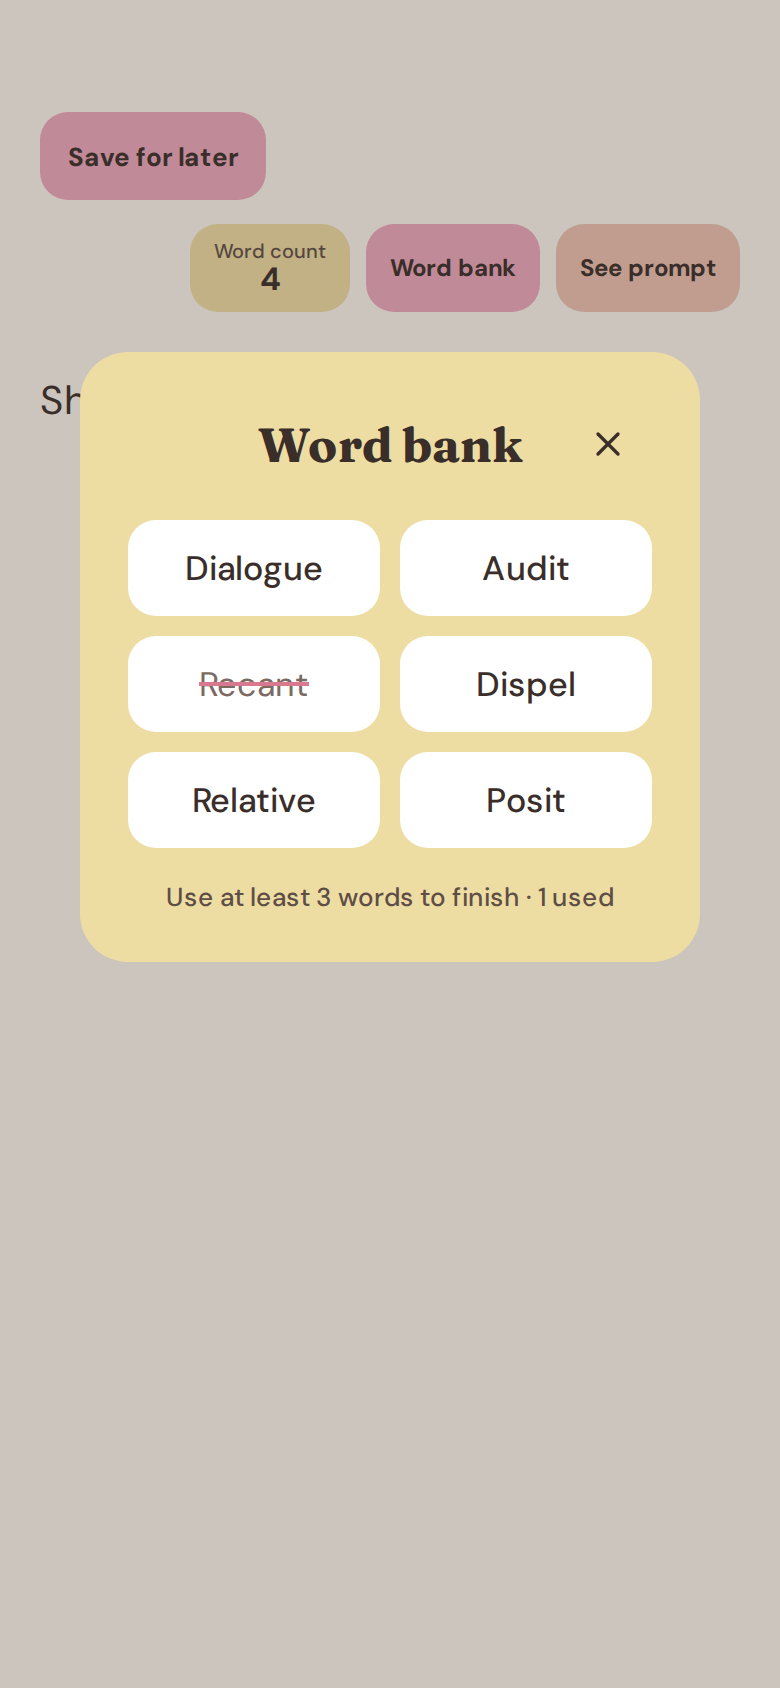
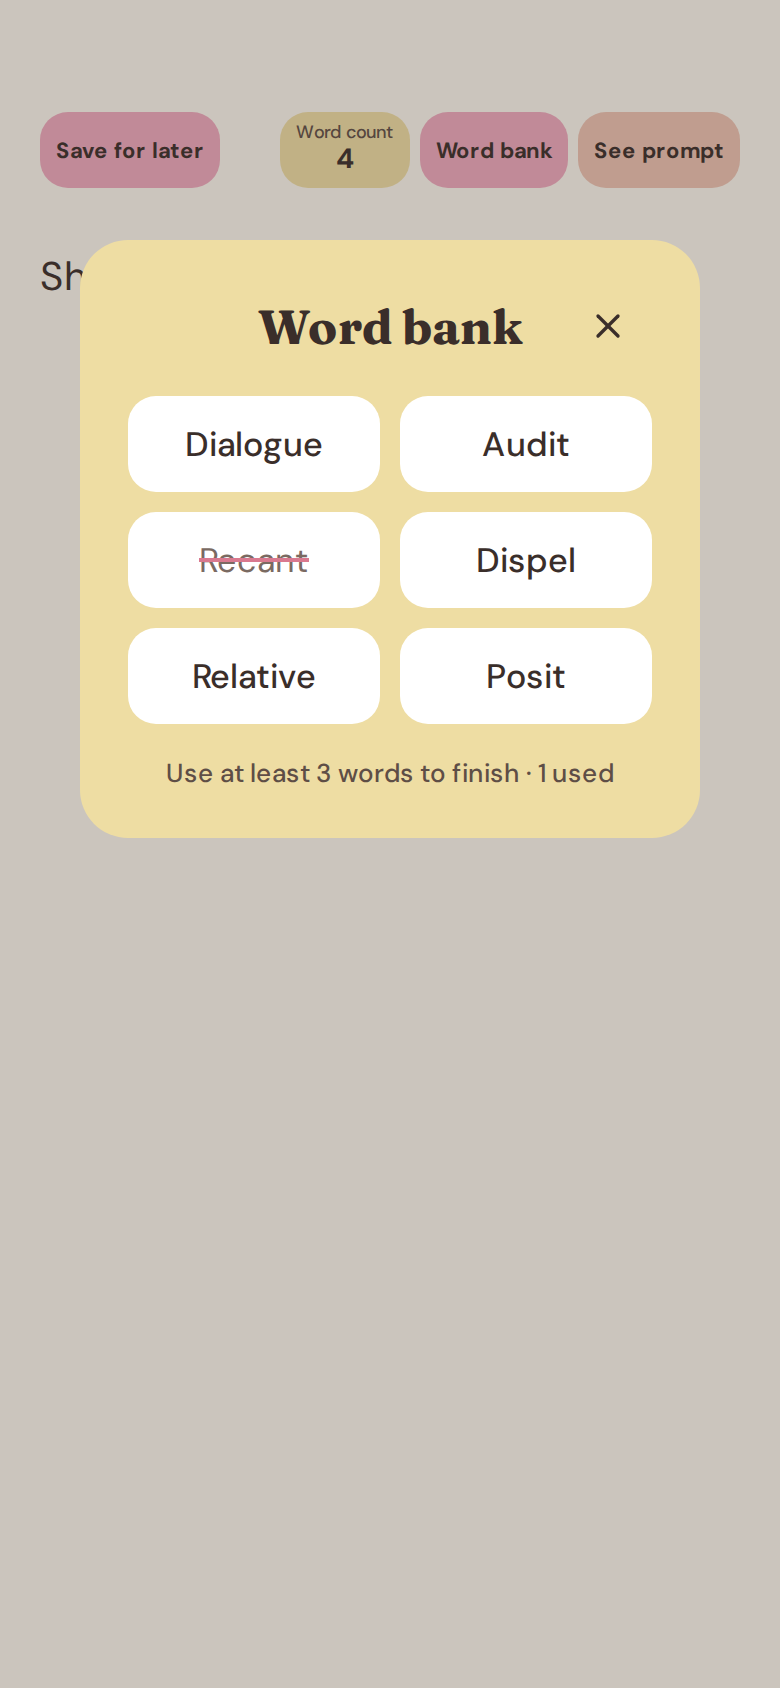
Keep Write screen buttons on one row and make them smaller

Changed region(s): [[0.0615, 0.0616, 0.9538, 0.5853]]

diff --git a/screens/write-word-bank-open.html b/screens/write-word-bank-open.html
@@ -14,15 +14,15 @@ a{color:#3A2E2A}a:hover{color:#000}
 <body style="display:flex;justify-content:center">
 <div style="position: relative; width: 390px; height: 844px; box-sizing: border-box; background: #FBF7EE; padding: 56px 20px 32px; display: flex; flex-direction: column; gap: 28px; font-family: 'DM Sans', sans-serif; color: #3A2E2A">
 
-<div style="display: flex; flex-direction: column; align-items: stretch; gap: 12px">
-<span style="height: 44px; align-self: flex-start; padding: 0 14px; display: flex; align-items: center; border-radius: 14px; background: #eea9bc; font-size: 13px; font-weight: 700">Save for later</span>
-<div style="align-self: flex-end; display: flex; gap: 8px; align-items: center">
-<div style="height: 44px; box-sizing: border-box; padding: 0 12px; border-radius: 14px; background: #eedda3; display: flex; flex-direction: column; align-items: center; justify-content: center; text-align: center; line-height: 1.1; white-space: nowrap">
-<span style="font-size: 10px; font-weight: 500; color: #5E4E46">Word count</span>
-<span style="font-size: 16px; font-weight: 700">4</span>
+<div style="display: flex; justify-content: space-between; align-items: center">
+<span style="height: 38px; padding: 0 8px; display: flex; align-items: center; border-radius: 14px; background: #eea9bc; font-size: 11px; font-weight: 700">Save for later</span>
+<div style="display: flex; gap: 5px; align-items: center">
+<div style="height: 38px; box-sizing: border-box; padding: 0 8px; border-radius: 14px; background: #eedda3; display: flex; flex-direction: column; align-items: center; justify-content: center; text-align: center; line-height: 1.1; white-space: nowrap">
+<span style="font-size: 9px; font-weight: 500; color: #5E4E46">Word count</span>
+<span style="font-size: 14px; font-weight: 700">4</span>
 </div>
-<span style="height: 44px; padding: 0 12px; display: flex; align-items: center; border-radius: 14px; background: #eea9bc; font-size: 12px; font-weight: 700">Word bank</span>
-<span style="height: 44px; padding: 0 12px; display: flex; align-items: center; border-radius: 14px; background: #ecc2b0; font-size: 12px; font-weight: 700">See prompt</span>
+<span style="height: 38px; padding: 0 8px; display: flex; align-items: center; border-radius: 14px; background: #eea9bc; font-size: 11px; font-weight: 700">Word bank</span>
+<span style="height: 38px; padding: 0 8px; display: flex; align-items: center; border-radius: 14px; background: #ecc2b0; font-size: 11px; font-weight: 700">See prompt</span>
 </div>
 </div>
 
@@ -30,11 +30,11 @@ a{color:#3A2E2A}a:hover{color:#000}
 
 <div style="position: absolute; left: 0; top: 0; width: 390px; height: 844px; background: rgba(58, 46, 42, 0.25)"></div>
 
-<div style="position: absolute; left: 40px; top: 176px; width: 310px; box-sizing: border-box; padding: 24px; border-radius: 24px; background: #eedda3; display: flex; flex-direction: column; align-items: center; gap: 16px">
+<div style="position: absolute; left: 40px; top: 120px; width: 310px; box-sizing: border-box; padding: 24px; border-radius: 24px; background: #eedda3; display: flex; flex-direction: column; align-items: center; gap: 16px">
 <div style="width: 100%; display: flex; justify-content: space-between; align-items: center">
 <span style="width: 44px"></span>
 <h2 style="margin: 0; font-family: Fraunces, serif; font-size: 24px; font-weight: 700">Word bank</h2>
-<a href="write.html" aria-label="Close word bank" style="width: 44px; height: 44px; display: flex; align-items: center; justify-content: center"><svg width="20" height="20" viewBox="0 0 24 24" fill="none" stroke="currentColor" stroke-width="2" stroke-linecap="round" stroke-linejoin="round" aria-hidden="true"><path d="M6 6l12 12"></path><path d="M18 6L6 18"></path></svg></a>
+<a href="write.html" aria-label="Close word bank" style="width: 44px; height: 38px; display: flex; align-items: center; justify-content: center"><svg width="20" height="20" viewBox="0 0 24 24" fill="none" stroke="currentColor" stroke-width="2" stroke-linecap="round" stroke-linejoin="round" aria-hidden="true"><path d="M6 6l12 12"></path><path d="M18 6L6 18"></path></svg></a>
 </div>
 <div style="width: 100%; display: grid; grid-template-columns: repeat(2, minmax(0, 1fr)); gap: 10px">
 <div style="height: 48px; border-radius: 14px; background: #ffffff; display: flex; align-items: center; justify-content: center; font-size: 17px; font-weight: 500">Dialogue</div>

diff --git a/screens/write.html b/screens/write.html
@@ -14,15 +14,15 @@ a{color:#3A2E2A}a:hover{color:#000}
 <body style="display:flex;justify-content:center">
 <div style="width: 390px; height: 844px; box-sizing: border-box; background: #FBF7EE; padding: 56px 20px 32px; display: flex; flex-direction: column; gap: 28px; font-family: 'DM Sans', sans-serif; color: #3A2E2A">
 
-<div style="display: flex; flex-direction: column; align-items: stretch; gap: 12px">
-<a href="home.html" style="height: 44px; align-self: flex-start; padding: 0 14px; display: flex; align-items: center; border-radius: 14px; background: #eea9bc; font-size: 13px; font-weight: 700; text-decoration: none">Save for later</a>
-<div style="align-self: flex-end; display: flex; gap: 8px; align-items: center">
-<div style="height: 44px; box-sizing: border-box; padding: 0 12px; border-radius: 14px; background: #eedda3; display: flex; flex-direction: column; align-items: center; justify-content: center; text-align: center; line-height: 1.1; white-space: nowrap">
-<span style="font-size: 10px; font-weight: 500; color: #5E4E46">Word count</span>
-<span style="font-size: 16px; font-weight: 700">4</span>
+<div style="display: flex; justify-content: space-between; align-items: center">
+<a href="home.html" style="height: 38px; padding: 0 8px; display: flex; align-items: center; border-radius: 14px; background: #eea9bc; font-size: 11px; font-weight: 700; text-decoration: none">Save for later</a>
+<div style="display: flex; gap: 5px; align-items: center">
+<div style="height: 38px; box-sizing: border-box; padding: 0 8px; border-radius: 14px; background: #eedda3; display: flex; flex-direction: column; align-items: center; justify-content: center; text-align: center; line-height: 1.1; white-space: nowrap">
+<span style="font-size: 9px; font-weight: 500; color: #5E4E46">Word count</span>
+<span style="font-size: 14px; font-weight: 700">4</span>
 </div>
-<a href="write-word-bank-open.html" style="height: 44px; padding: 0 12px; display: flex; align-items: center; border-radius: 14px; background: #eea9bc; font-size: 12px; font-weight: 700; text-decoration: none">Word bank</a>
-<button style="height: 44px; padding: 0 12px; border: none; border-radius: 14px; background: #ecc2b0; font-family: inherit; font-size: 12px; font-weight: 700; color: #3A2E2A">See prompt</button>
+<a href="write-word-bank-open.html" style="height: 38px; padding: 0 8px; display: flex; align-items: center; border-radius: 14px; background: #eea9bc; font-size: 11px; font-weight: 700; text-decoration: none">Word bank</a>
+<button style="height: 38px; padding: 0 8px; border: none; border-radius: 14px; background: #ecc2b0; font-family: inherit; font-size: 11px; font-weight: 700; color: #3A2E2A">See prompt</button>
 </div>
 </div>
 
